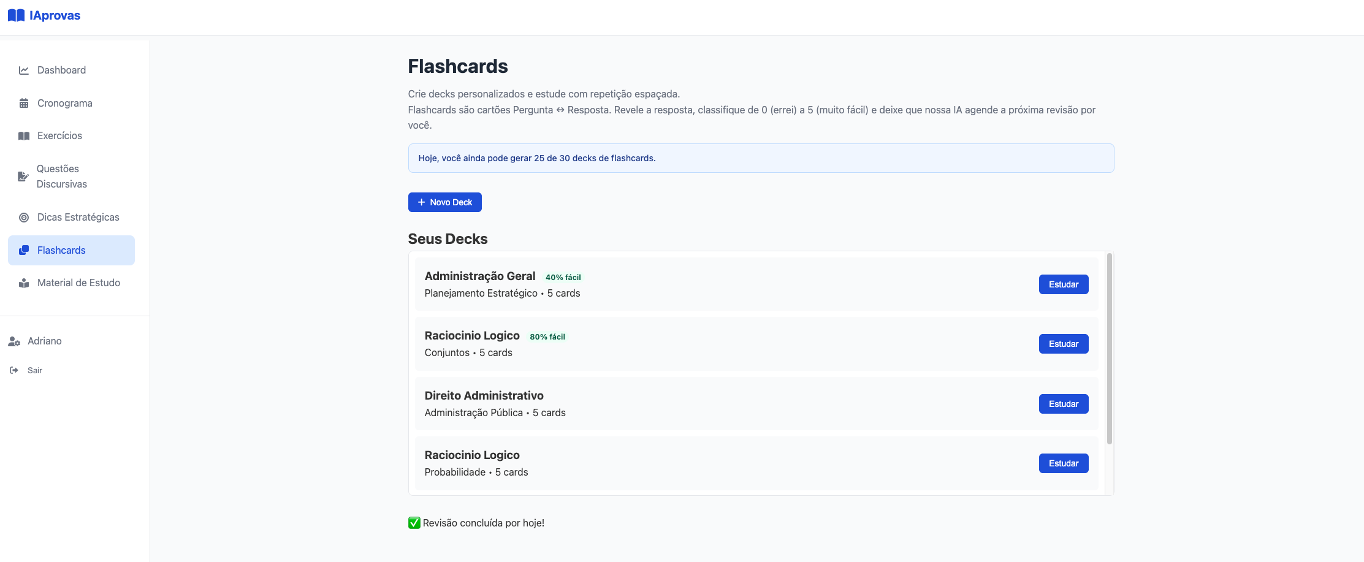
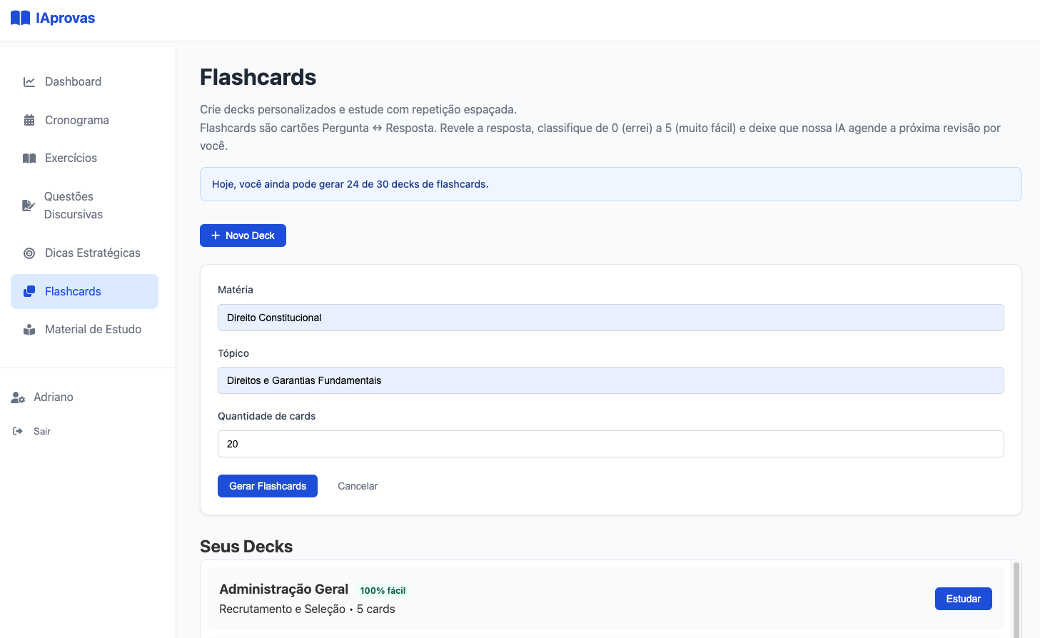
Corrige comportamento errado na secao de flashcards

diff --git a/flashcards-page.js b/flashcards-page.js
@@ -11,7 +11,6 @@ const containerFormDeck = document.getElementById('container-form-deck');
 const historicoDecks = document.getElementById('historico-decks');
 const usageCounterDiv = document.getElementById('usage-counter');
 const estudoContainer = document.getElementById('flashcard-estudo');
-const recentContainer=document.getElementById('flashcard-recente');
 
 let unsubDecks = null;
 let filaCartoes = [];
@@ -54,6 +53,8 @@ function ouvirDecks(){
             showToast('✅ Deck de flashcards pronto!','success',6000);
             ultimoDeckSolicitado=null;
             if(window.processingUI){window.processingUI.removeResultAreaHighlight('#historico-decks');}
+            const btn=document.querySelector(`.btn-abrir-deck[data-id="${d.deckId}"]`);
+            if(btn) btn.textContent='Rever';
          }
        }
     });
@@ -108,8 +109,8 @@ containerFormDeck?.addEventListener('submit',async e=>{
       showToast('Deck solicitado! Gerando...','info',3000);
       const resp=await gerarFlashcardsAsync({userId:auth.currentUser.uid,materia,topico,quantidade});
       ultimoDeckSolicitado=resp.deckId;
-      recentContainer.innerHTML=cardHtml({materia,topico,cardCount:quantidade,deckId:'placeholder',status:'processing'});
-      recentContainer.classList.add('result-area-highlight');
+      estudoContainer.innerHTML=cardHtml({materia,topico,cardCount:quantidade,deckId:'placeholder',status:'processing'});
+      estudoContainer.classList.add('result-area-highlight');
       return resp;
     },
     onComplete:()=>{

diff --git a/flashcards.html b/flashcards.html
@@ -62,12 +62,10 @@
                 <div id="container-form-deck" class="feature-card" style="display:none;margin-bottom:24px;"></div>
 
                 <h2>Seus Decks</h2>
-                <div id="flashcard-recente"></div>
+                <div id="flashcard-estudo" style="display:none;margin-bottom:24px;"></div>
                 <div id="historico-decks" class="historico-grid">
                     <p>Carregando seus decks...</p>
                 </div>
-
-                <div id="flashcard-estudo" style="display:none;margin-top:32px;"></div>
             </div>
         </main>
     </div>

diff --git a/home.html b/home.html
@@ -82,6 +82,7 @@
                         <div class="stat-header"><h3 class="stat-title">Flashcards</h3></div>
                         <div class="stat-content" style="display:flex;flex-direction:column;align-items:center;gap:4px;">
                            <span id="stat-flash-easy" class="stat-number purple">0%</span>
+                           <span id="stat-flashcards" style="display:none;"></span>
                            <small id="stat-flash-detail" style="font-size:0.75rem;color:#6b7280;">0/0</small>
                         </div>
                     </div>
